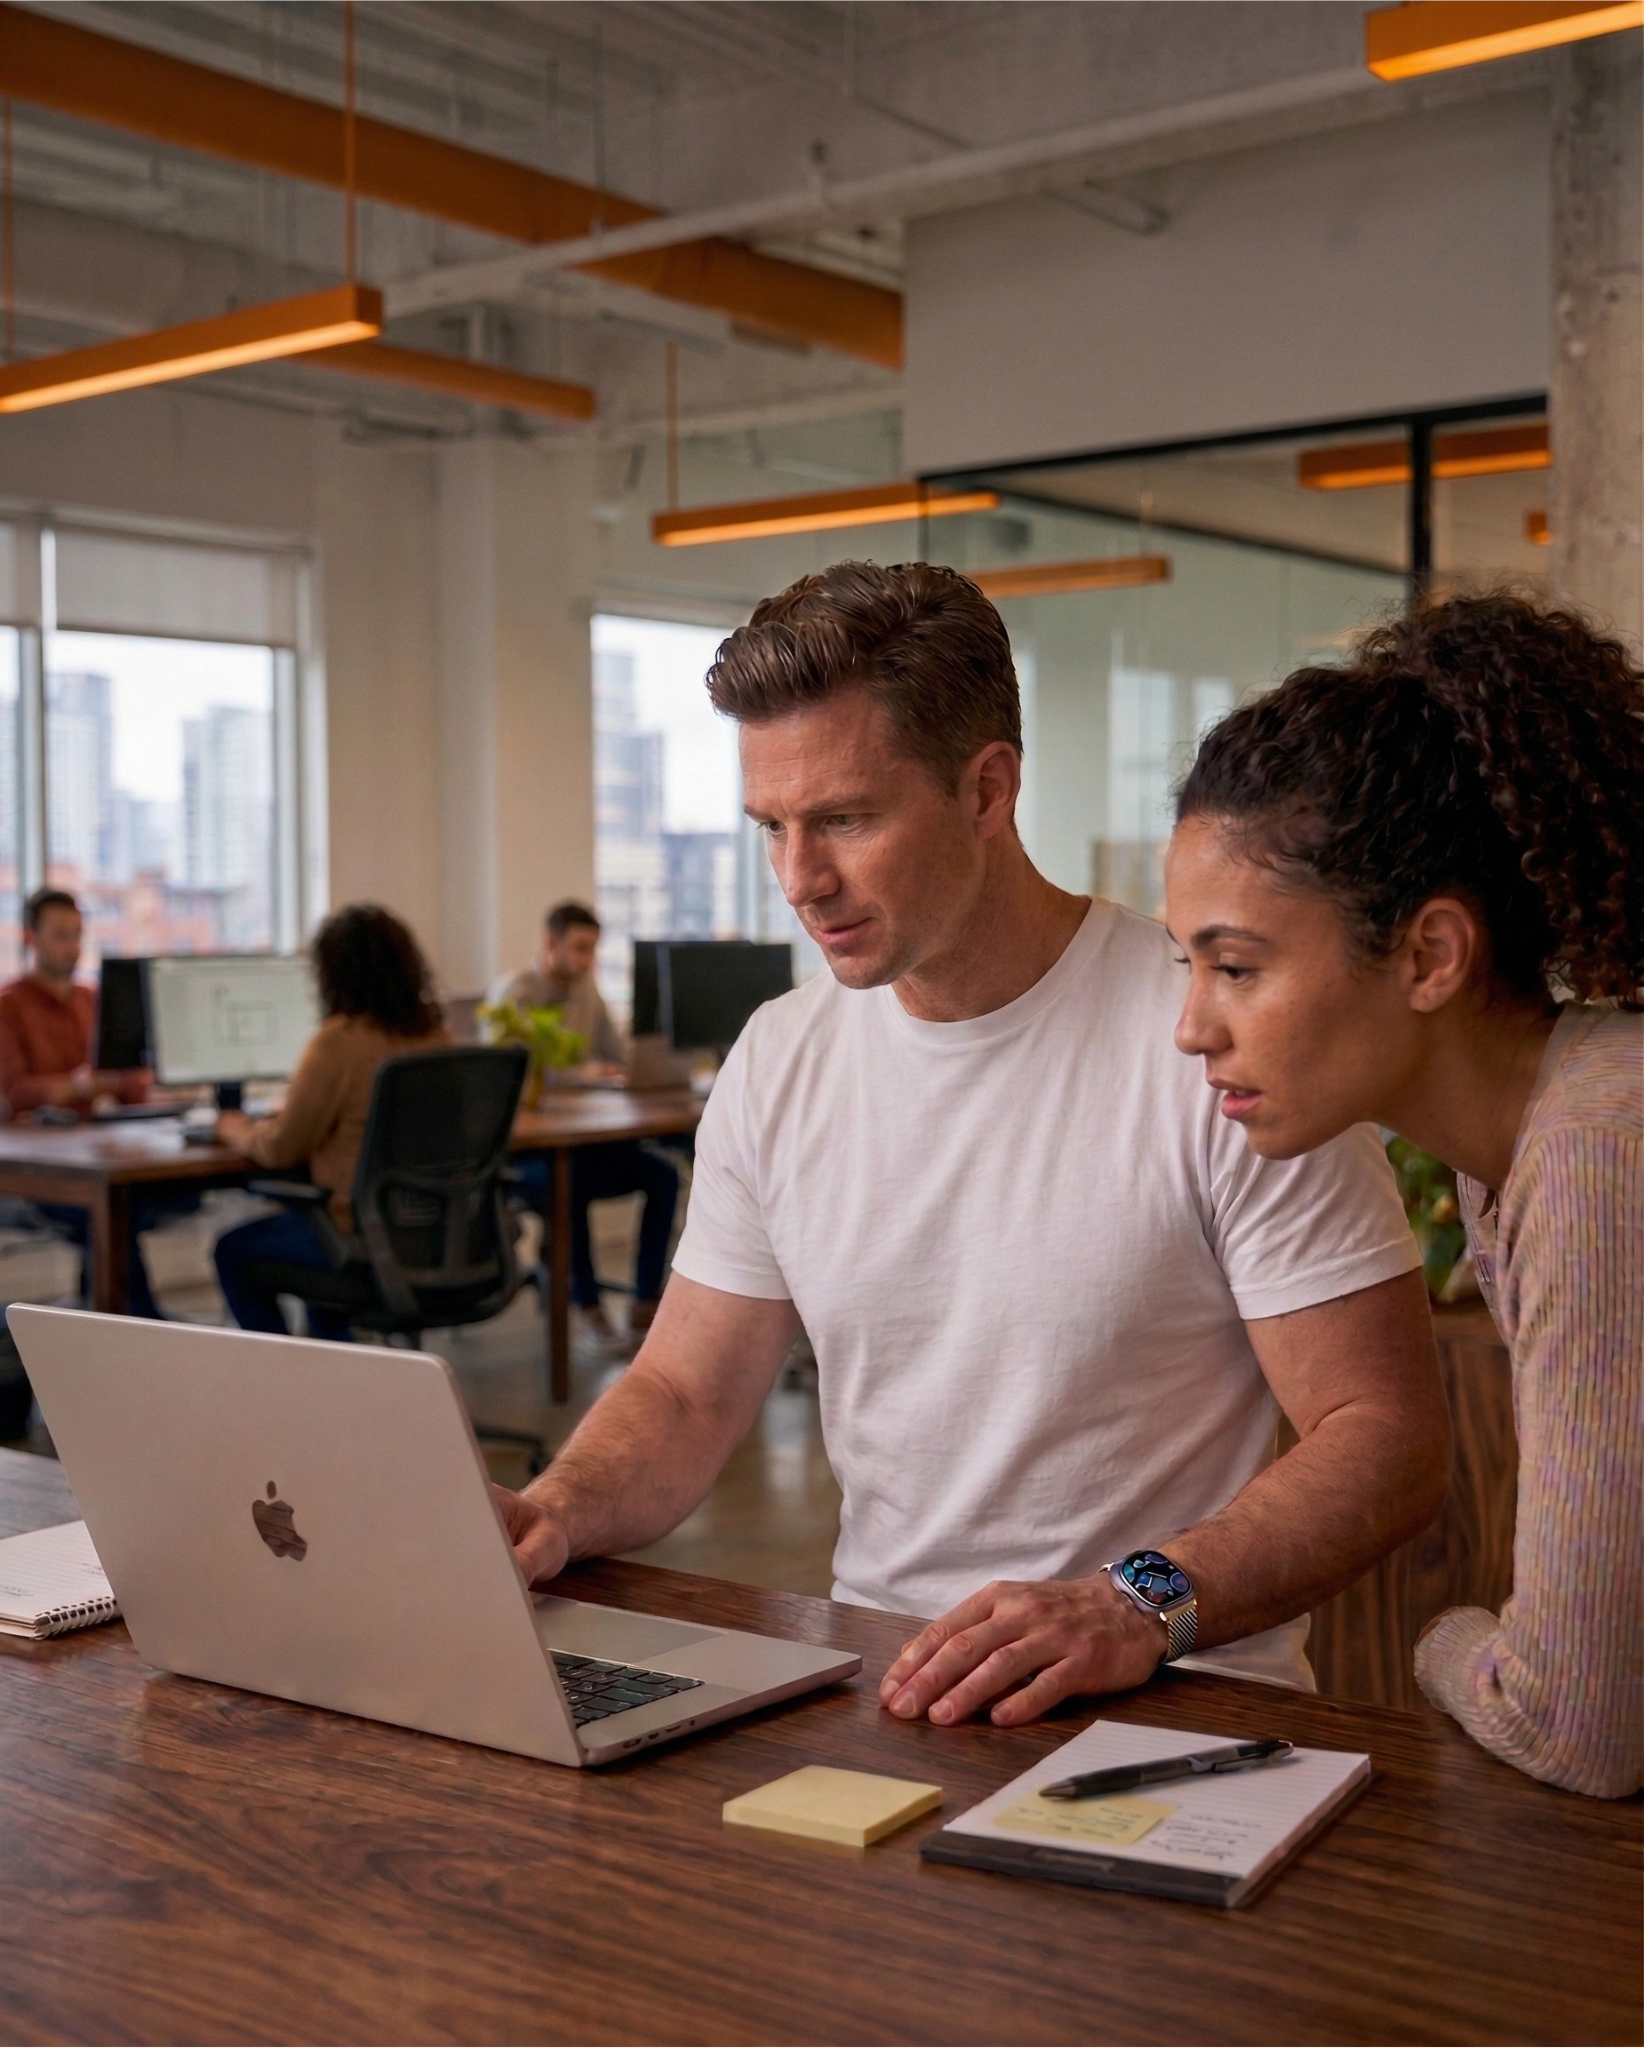
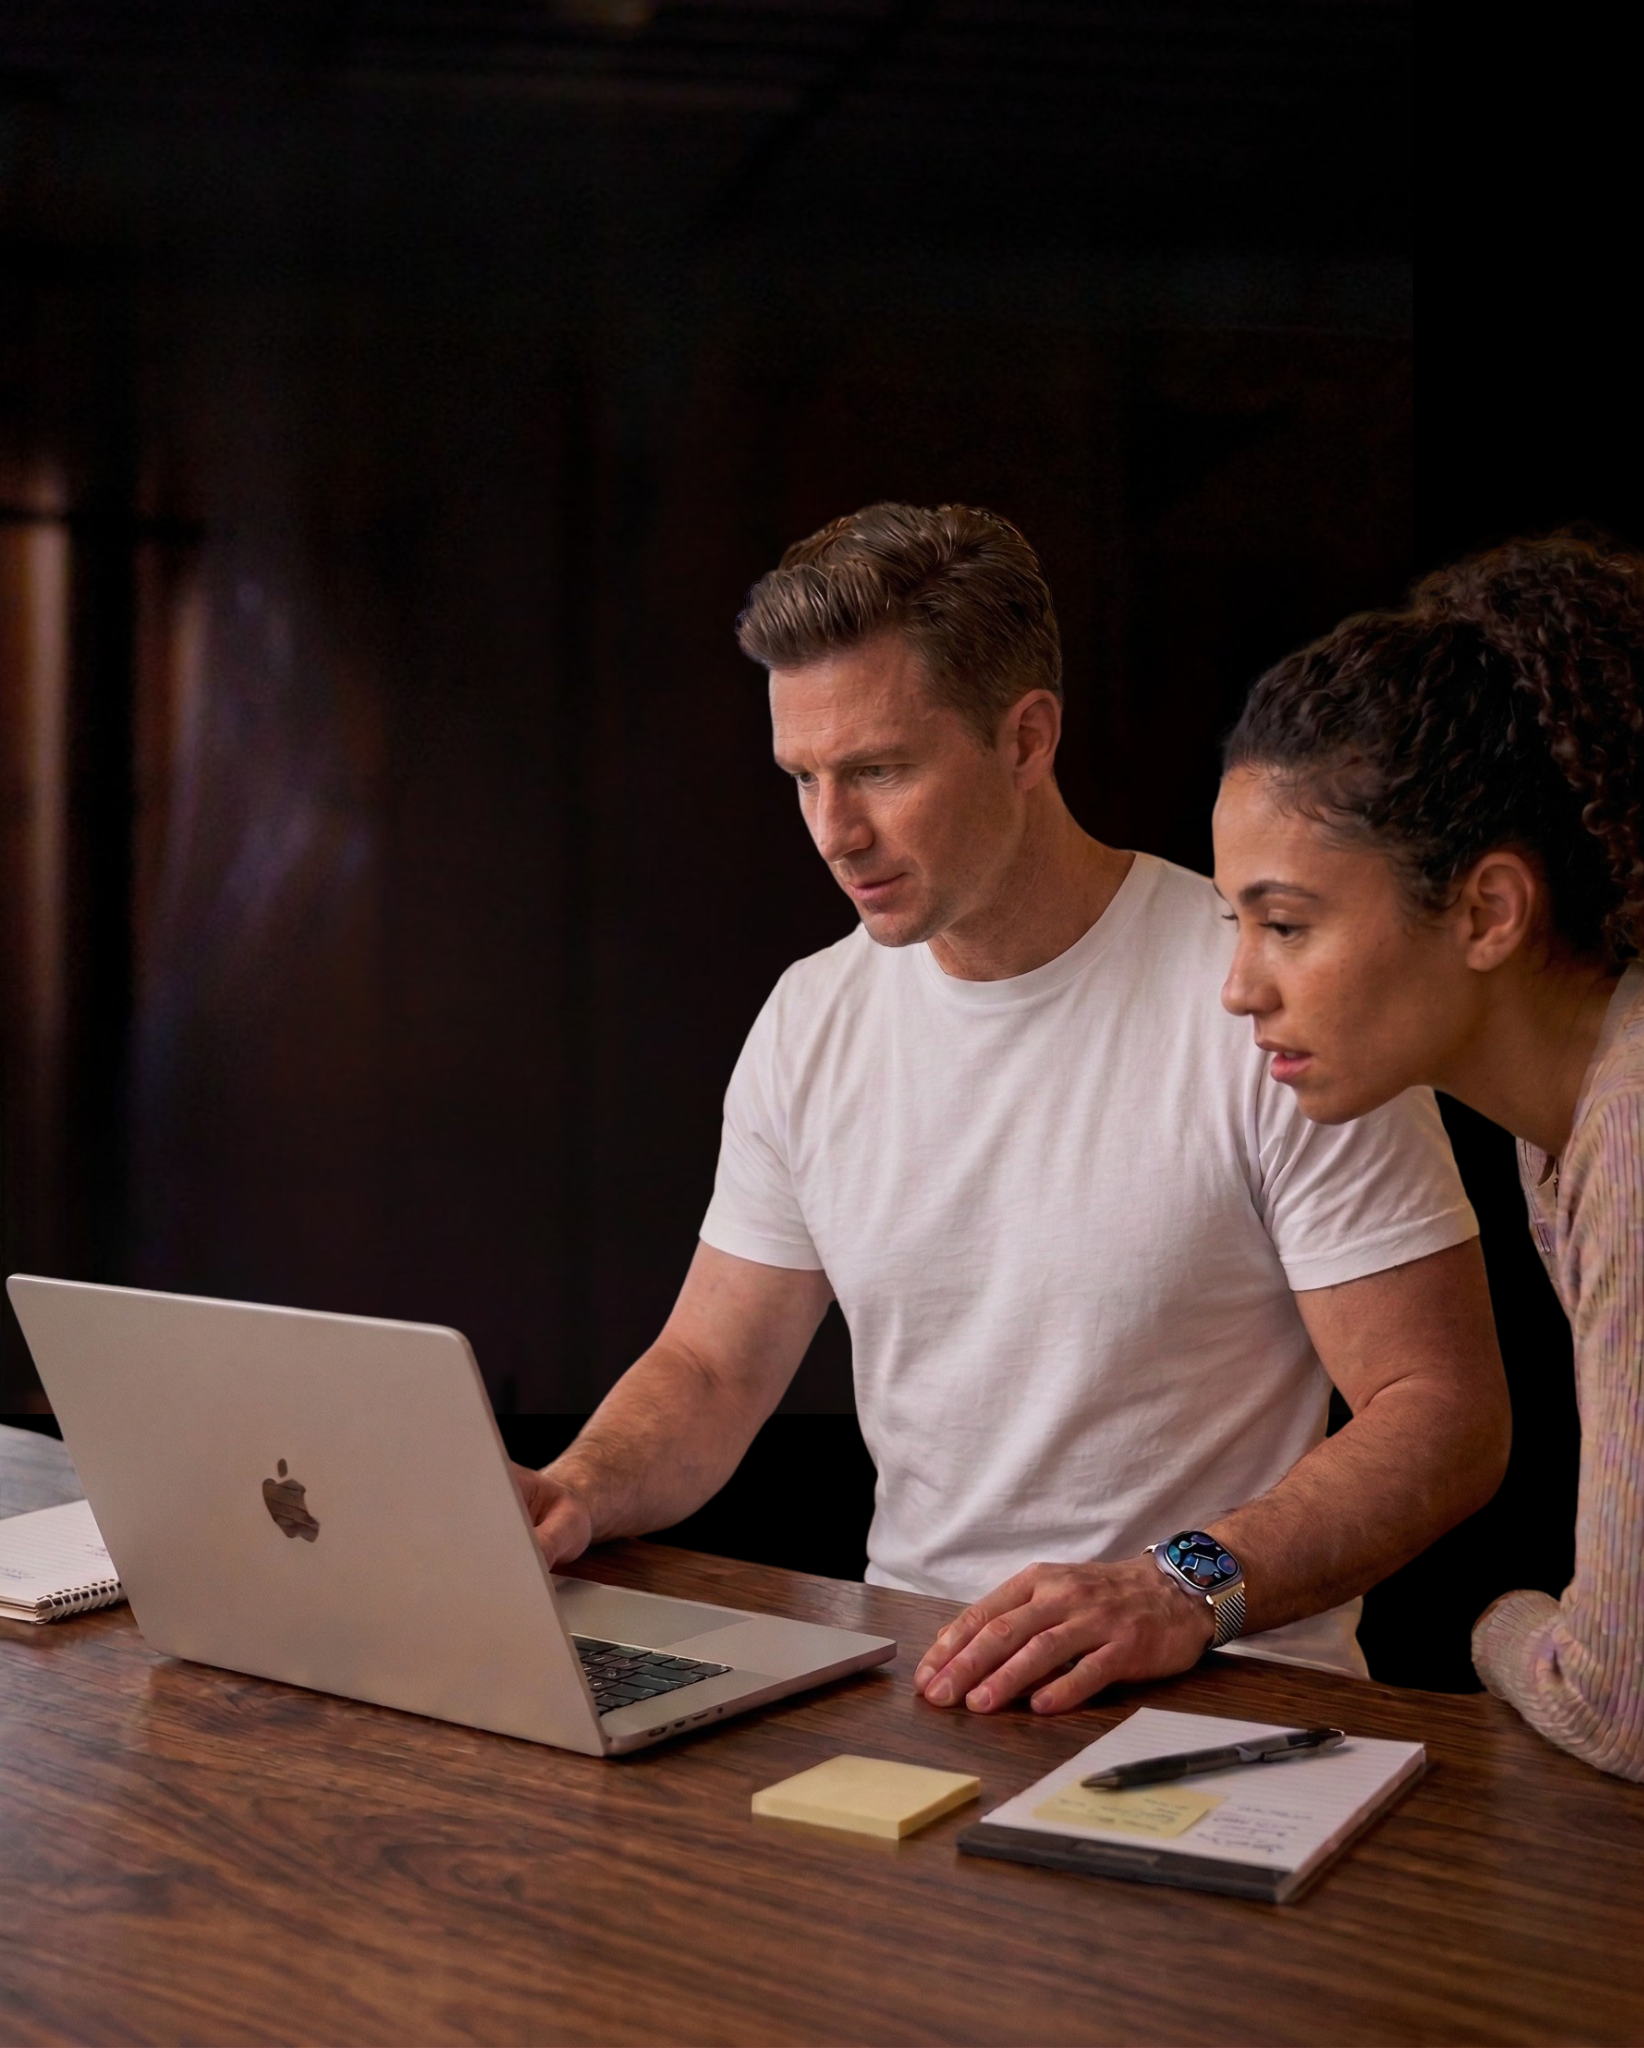
Redesign HelpSection cards and ProcessSection styling
- New Mikel photo, new team photo with dark background
- Reorder cards: Dedicated Experts, Keni Specialists, Automation, Small Teams, See Results
- Apple-style short punchy headlines
- Custom icons for Automation (orbital) and See Results (pulse)
- Hover effect: subtle lift with shadow
- Color labels per card (orange automation, green results)
- ProcessSection: light gray cards with floating shadow, no forced dark text
- Remove glow effects from Automation and See Results cards

diff --git a/src/components/home/HelpSection.tsx b/src/components/home/HelpSection.tsx
@@ -8,7 +8,7 @@ import FadeIn from "@/components/ui/FadeIn";
 const cards = [
   {
     label: "DEDICATED EXPERTS",
-    headline: "A team of specialists in constant innovation, at your service.",
+    headline: "Always learning. Always building.",
     image: "/help-innovation.png",
     alt: "Abstract 3D blocks representing innovation and teamwork",
     href: "/about",
@@ -17,7 +17,7 @@ const cards = [
   },
   {
     label: "KENI SPECIALISTS",
-    headline: "Build with the help of Specialists, online or on a call.",
+    headline: "Real experts. Real conversations.",
     image: "/help-meet-us.png",
     alt: "Mikel, co-founder of Keni Engineering",
     href: "/about",
@@ -26,8 +26,19 @@ const cards = [
     bgWhite: true,
   },
   {
+    label: "AUTOMATION",
+    headline: "Push code. We handle the rest.",
+    image: null,
+    alt: "",
+    href: "/platform",
+    dark: false,
+    icon: "automation",
+    bgWhite: true,
+    labelColor: "text-muted",
+  },
+  {
     label: "SMALL TEAMS",
-    headline: "Simple solutions for every kind of workflow.",
+    headline: "Built for teams like yours.",
     image: "/help-team.png",
     alt: "Team collaborating on infrastructure",
     href: "/devops-consulting",
@@ -35,24 +46,15 @@ const cards = [
     fullBleed: true,
   },
   {
-    label: "AUTOMATION",
-    headline: "One platform. Every workflow automated. Every deploy zero-touch.",
-    image: null,
-    alt: "",
-    href: "/platform",
-    dark: false,
-    glowBlue: true,
-    icon: "automation",
-  },
-  {
     label: "SEE THE RESULTS",
-    headline: "From manual deploys to fully automated in under 30 days.",
+    headline: "30 days to fully automated.",
     image: null,
     alt: "",
     href: "/devops-consulting",
     dark: false,
     icon: "rocket",
-    glowGreen: true,
+    bgWhite: true,
+    labelColor: "text-green-800",
   },
 ];
 
@@ -71,7 +73,7 @@ export default function HelpSection() {
           </h2>
         </FadeIn>
 
-        <div className="mt-12 md:mt-16 flex gap-5 overflow-x-auto overflow-y-hidden pb-4 snap-x snap-mandatory scrollbar-hide -mx-6 px-6 md:mx-0 md:px-0 touch-pan-x">
+        <div className="mt-12 md:mt-16 flex gap-5 overflow-x-auto overflow-y-visible pb-16 pt-6 snap-x snap-mandatory scrollbar-hide -mx-10 px-10 md:-mx-8 md:px-8 touch-pan-x">
           {cards.map((card, i) => (
             <FadeIn key={card.label} delay={i * 0.1}>
               <Link
@@ -79,20 +81,23 @@ export default function HelpSection() {
                 className="group block flex-shrink-0 w-[280px] md:w-[340px] snap-start"
               >
                 <div
-                  className={`relative rounded-2xl overflow-hidden h-[380px] md:h-[440px] ${
-                    card.dark
+                  className={`relative rounded-2xl overflow-hidden h-[380px] md:h-[440px] transition-all duration-500 ease-out group-hover:-translate-y-1 group-hover:shadow-2xl ${
+                    "bgHex" in card
+                      ? "text-white"
+                      : card.dark
                       ? "bg-black text-white"
                       : "bgWhite" in card && card.bgWhite
-                      ? "bg-white text-black"
+                      ? "bg-[#F5F5F5] dark:bg-[#F5F5F5] text-black"
                       : "bg-surface text-foreground"
                   }`}
+                  style={"bgHex" in card ? { backgroundColor: card.bgHex } : undefined}
                 >
                   {/* Blue glow effect */}
                   {"glowBlue" in card && card.glowBlue && (
                     <div
                       className="absolute inset-0 pointer-events-none"
                       style={{
-                        background: "linear-gradient(135deg, rgba(59, 130, 246, 0.25) 0%, rgba(100, 160, 255, 0.1) 40%, transparent 70%)",
+                        background: "linear-gradient(135deg, rgba(59, 130, 246, 0.12) 0%, rgba(100, 160, 255, 0.05) 40%, transparent 70%)",
                       }}
                     />
                   )}
@@ -102,7 +107,7 @@ export default function HelpSection() {
                     <div
                       className="absolute inset-0 pointer-events-none"
                       style={{
-                        background: "linear-gradient(135deg, rgba(34, 197, 94, 0.25) 0%, rgba(74, 222, 128, 0.1) 40%, transparent 70%)",
+                        background: "linear-gradient(135deg, rgba(34, 197, 94, 0.12) 0%, rgba(74, 222, 128, 0.05) 40%, transparent 70%)",
                       }}
                     />
                   )}
@@ -124,7 +129,7 @@ export default function HelpSection() {
                         "labelColor" in card && card.labelColor
                           ? card.labelColor
                           : "fullBleed" in card && card.fullBleed
-                          ? "text-white/70"
+                          ? card.dark ? "text-white/70" : "text-muted"
                           : card.dark
                           ? "text-blue-400"
                           : "text-muted"
@@ -132,7 +137,7 @@ export default function HelpSection() {
                     >
                       {card.label}
                     </p>
-                    <h3 className="text-[1.2rem] md:text-[1.35rem] font-semibold leading-tight">
+                    <h3 className="text-[1.1rem] md:text-[1.2rem] font-normal leading-snug tracking-wide">
                       {card.headline}
                     </h3>
                   </div>
@@ -177,37 +182,45 @@ export default function HelpSection() {
                       <div className="absolute inset-0 flex items-center justify-center pt-20">
                         {"icon" in card && card.icon === "rocket" && (
                           <svg
-                            className="w-28 h-28 md:w-36 md:h-36 text-muted"
-                            viewBox="0 0 24 24"
+                            className="w-28 h-28 md:w-36 md:h-36"
+                            viewBox="0 0 64 64"
                             fill="none"
-                            stroke="currentColor"
-                            strokeWidth="1"
-                            strokeLinecap="round"
-                            strokeLinejoin="round"
                           >
-                            <path d="M4.5 16.5c-1.5 1.26-2 5-2 5s3.74-.5 5-2c.71-.84.7-2.13-.09-2.91a2.18 2.18 0 0 0-2.91-.09z" />
-                            <path d="m12 15-3-3a22 22 0 0 1 2-3.95A12.88 12.88 0 0 1 22 2c0 2.72-.78 7.5-6 11a22.35 22.35 0 0 1-4 2z" />
-                            <path d="M9 12H4s.55-3.03 2-4c1.62-1.08 5 0 5 0" />
-                            <path d="M12 15v5s3.03-.55 4-2c1.08-1.62 0-5 0-5" />
+                            {/* Base line */}
+                            <line x1="4" y1="38" x2="16" y2="38" stroke="#166534" strokeWidth="1" strokeLinecap="round" opacity="0.3" />
+                            {/* Pulse down */}
+                            <path d="M16 38 L20 38 L23 46 L28 28 L33 42 L36 34 L39 38" stroke="#166534" strokeWidth="1.5" strokeLinecap="round" strokeLinejoin="round" opacity="0.7" />
+                            {/* Peak spike upward */}
+                            <path d="M39 38 L42 20 L45 38" stroke="#166534" strokeWidth="1.5" strokeLinecap="round" strokeLinejoin="round" opacity="0.9" />
+                            {/* Trailing line */}
+                            <line x1="45" y1="38" x2="60" y2="38" stroke="#166534" strokeWidth="1" strokeLinecap="round" opacity="0.3" />
+                            {/* Glow dot at peak */}
+                            <circle cx="42" cy="20" r="2" fill="#166534" opacity="0.4" />
+                            <circle cx="42" cy="20" r="4" fill="#166534" opacity="0.1" />
                           </svg>
                         )}
                         {"icon" in card && card.icon === "automation" && (
                           <svg
                             className="w-28 h-28 md:w-36 md:h-36"
-                            viewBox="0 0 24 24"
+                            viewBox="0 0 64 64"
                             fill="none"
-                            stroke="#3b82f6"
-                            strokeWidth="1"
-                            strokeLinecap="round"
-                            strokeLinejoin="round"
                           >
-                            {/* Workflow/automation: connected nodes (Lucide Workflow) */}
-                            <rect x="3" y="3" width="6" height="6" rx="1" />
-                            <rect x="15" y="3" width="6" height="6" rx="1" />
-                            <rect x="9" y="15" width="6" height="6" rx="1" />
-                            <path d="M6 9v3a1 1 0 0 0 1 1h2" />
-                            <path d="M18 9v3a1 1 0 0 1-1 1h-2" />
-                            <path d="M12 12v3" />
+                            {/* Outer ring */}
+                            <circle cx="32" cy="32" r="28" stroke="#2563eb" strokeWidth="0.5" opacity="0.3" />
+                            {/* Inner ring with dash */}
+                            <circle cx="32" cy="32" r="20" stroke="#2563eb" strokeWidth="0.5" strokeDasharray="3 5" opacity="0.2" />
+                            {/* Flowing arc - top */}
+                            <path d="M32 4a28 28 0 0 1 24.2 14" stroke="#2563eb" strokeWidth="1.5" strokeLinecap="round" opacity="0.8" />
+                            {/* Flowing arc - bottom */}
+                            <path d="M32 60a28 28 0 0 1-24.2-14" stroke="#2563eb" strokeWidth="1.5" strokeLinecap="round" opacity="0.8" />
+                            {/* Center dot */}
+                            <circle cx="32" cy="32" r="2" fill="#2563eb" opacity="0.6" />
+                            {/* Node dots on the arcs */}
+                            <circle cx="56" cy="18" r="2.5" fill="#2563eb" opacity="0.5" />
+                            <circle cx="8" cy="46" r="2.5" fill="#2563eb" opacity="0.5" />
+                            {/* Connecting lines through center */}
+                            <line x1="10" y1="45" x2="30" y2="33" stroke="#2563eb" strokeWidth="0.5" opacity="0.25" />
+                            <line x1="34" y1="31" x2="54" y2="19" stroke="#2563eb" strokeWidth="0.5" opacity="0.25" />
                           </svg>
                         )}
                       </div>

diff --git a/src/components/home/ProcessSection.tsx b/src/components/home/ProcessSection.tsx
@@ -150,7 +150,7 @@ export default function ProcessSection() {
         <div className="max-w-[1100px] mx-auto grid grid-cols-1 md:grid-cols-2 lg:grid-cols-3 gap-4">
           {services.map((service, index) => (
             <FadeIn key={service.title} delay={index * 0.08}>
-              <div className="bg-surface rounded-2xl p-8 h-full flex flex-col shadow-[0_4px_30px_rgba(0,0,0,0.08)]">
+              <div className="bg-[#F6F6F6] dark:bg-[#F6F6F6] rounded-2xl p-8 h-full flex flex-col text-black shadow-lg shadow-black/5">
                 <h3 className="text-body text-foreground font-light tracking-wide mb-4">
                   {service.title}
                 </h3>